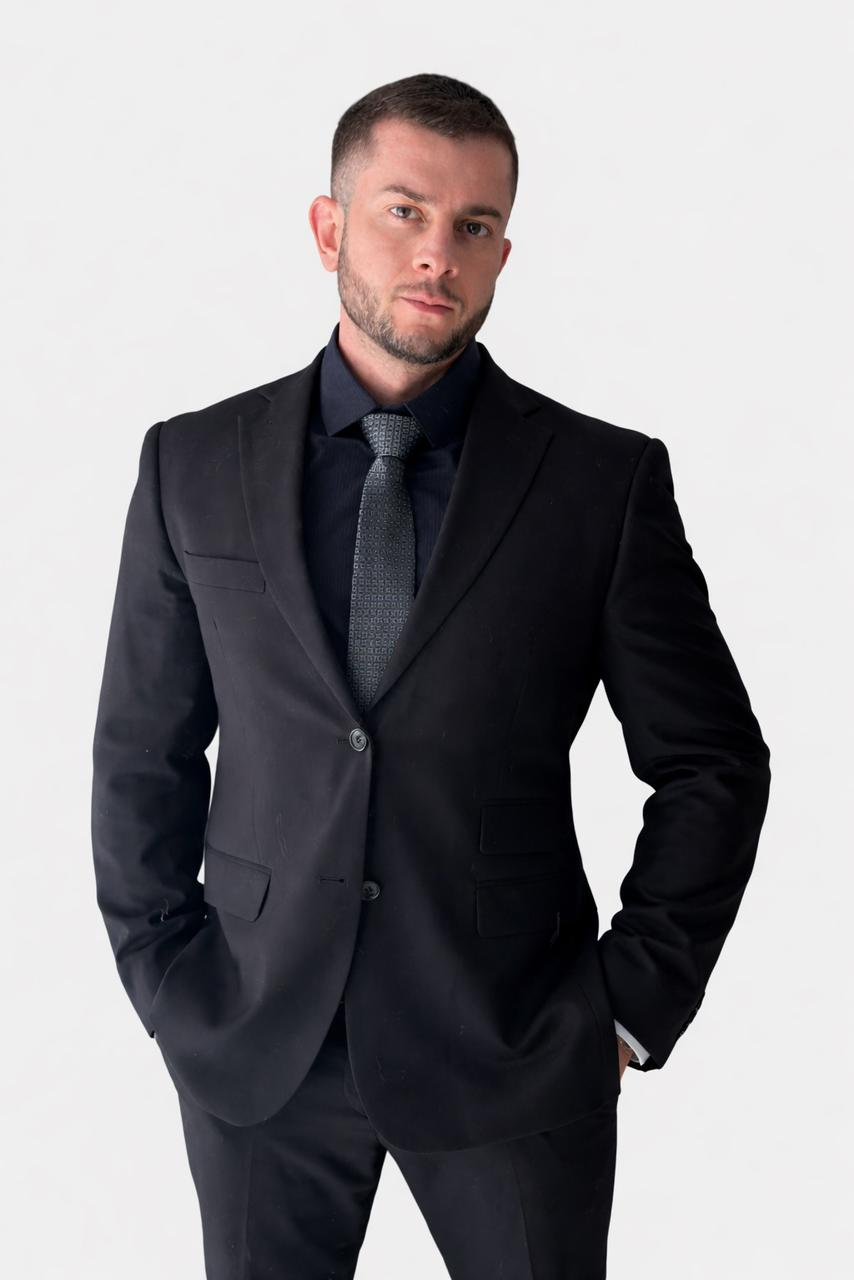
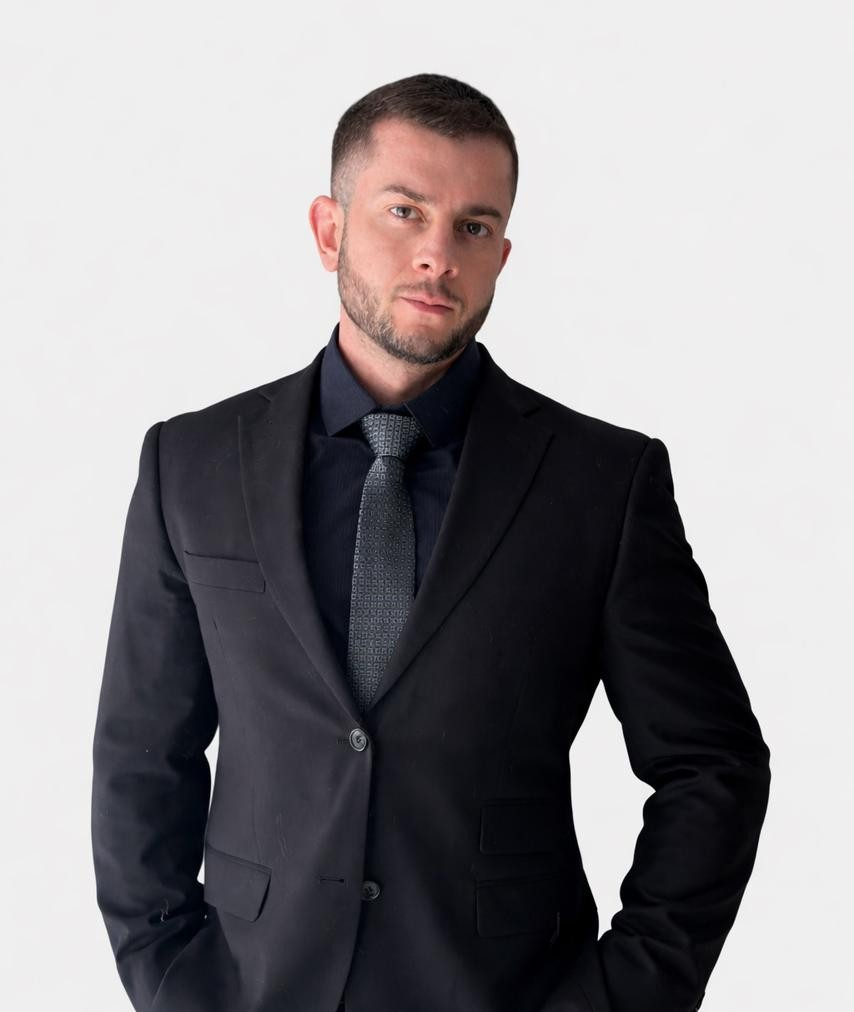
Alterando Imagens

diff --git a/src/components/sections/Institucional/Sobre.tsx b/src/components/sections/Institucional/Sobre.tsx
@@ -16,7 +16,7 @@ export default function Sobre() {
         <div className="relative mx-auto order-1 w-[80vw] max-w-[380px] sm:max-w-[420px] md:max-w-[360px] lg:max-w-[440px]">
           <div className="absolute -inset-3 -z-10 rounded-2xl bg-white/5 backdrop-blur-md ring-1 ring-white/15 shadow-[0_26px_70px_-20px_rgba(0,0,0,0.6)]" />
           <Image
-            src="/img/felipe2.jpg"
+            src="/img/felipe3.jpg"
             alt="Foto de Felipe Cesario"
             width={520}
             height={640}

diff --git a/src/components/sections/Institucional/Apresentação.tsx b/src/components/sections/Institucional/Apresentação.tsx
@@ -9,7 +9,7 @@ export default function Apresentacao() {
     "Advocacia especializada em Direito Criminal, Civil e Família atuando de forma estratégica e humanizada";
   const subheadline =
     "Prestação de serviço de advocacia responsável e eficiente.";
-  const photoUrl = "/img/felipe3.jpg";
+  const photoUrl = "/img/felipe2.jpg";
   const whatsapp = "5548991447874"; // mantido
   const ctaLabel = "Entrar em Contato";
   const secondaryCtaHref = "#atuacao";

diff --git a/src/app/page.tsx b/src/app/page.tsx
@@ -14,14 +14,14 @@ export default function Home() {
 
       <Intro
         name="Felipe Cesario"
-        photoUrl="/img/felipe3.jpg"
+        photoUrl="/img/felipe2.jpg"
       />
 
       <Authority
         sectionId="autoridade"
         lawyerName="Felipe Cesario"
         oab="OAB/SC N° 71.088"
-        photoUrl="/img/felipe2.jpg"
+        photoUrl="/img/felipe3.jpg"
       />
 
       <Urgency sectionId="atuacao" />
